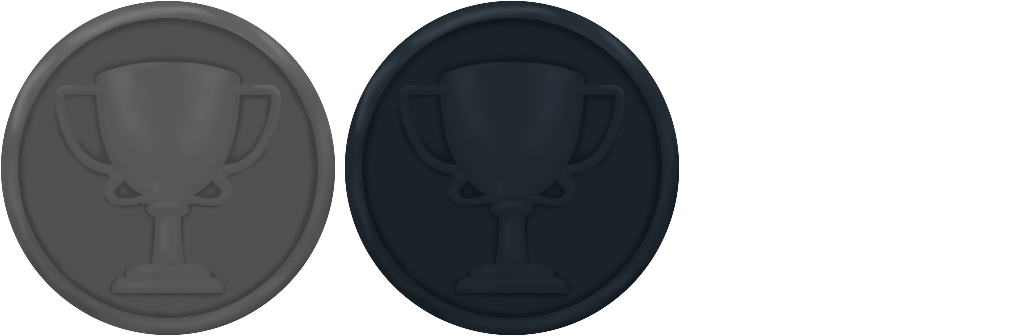
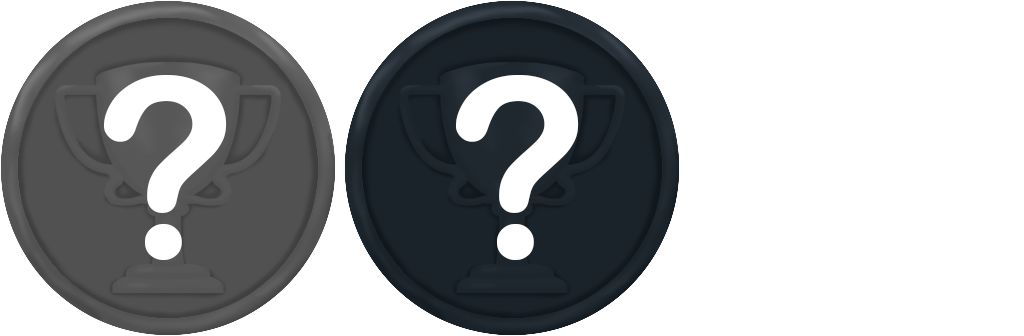
update
Changed the Default medal to now simple have the question make be part
of the image.

Slot Game speed was set back to normal.

diff --git a/Assets/Scripts/SlotGame.cs b/Assets/Scripts/SlotGame.cs
@@ -62,7 +62,7 @@ public class SlotGame : MonoBehaviour
                                                 new Vector2(-button_width/width_scale, -button_height/height_scale), new Vector2(button_width/width_scale, -button_height/height_scale),
                                              };
 
-        wheel_speed = button_height / 50.5f; // real speed
+        wheel_speed = button_height / 12.5f; // real speed
         //wheel_speed = button_height / 50f; // test speed
     }
 
